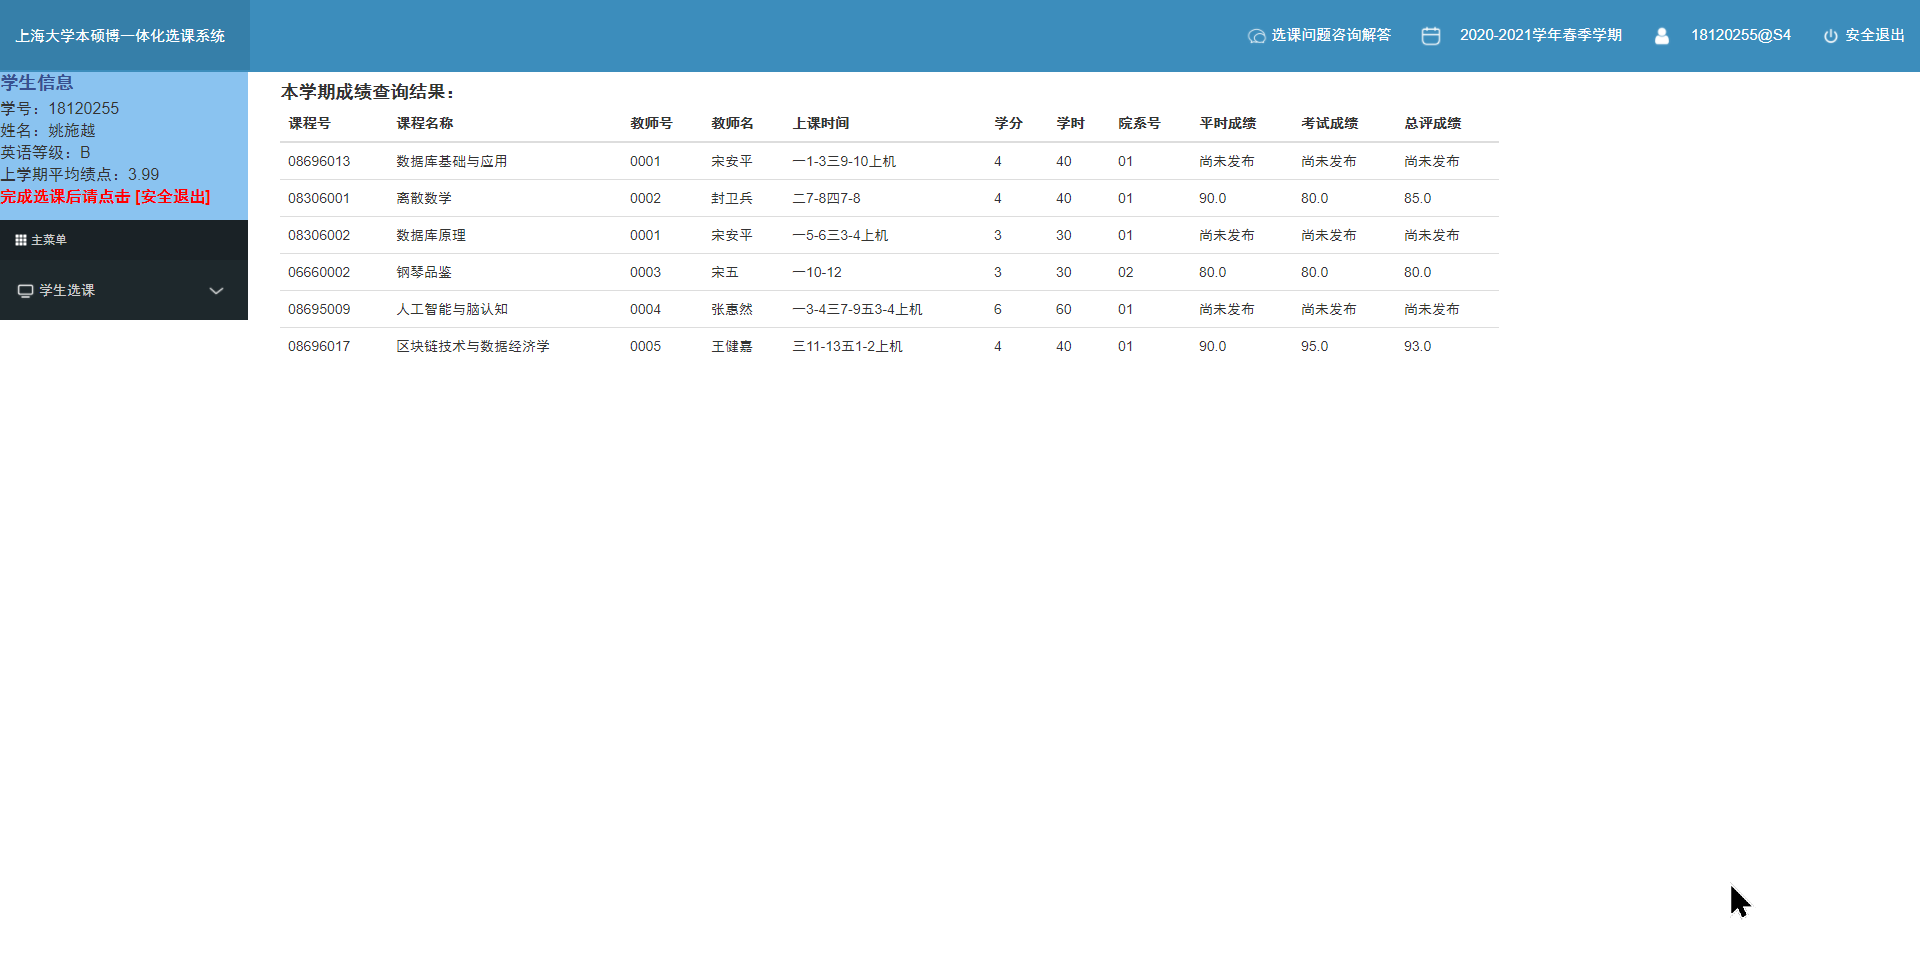
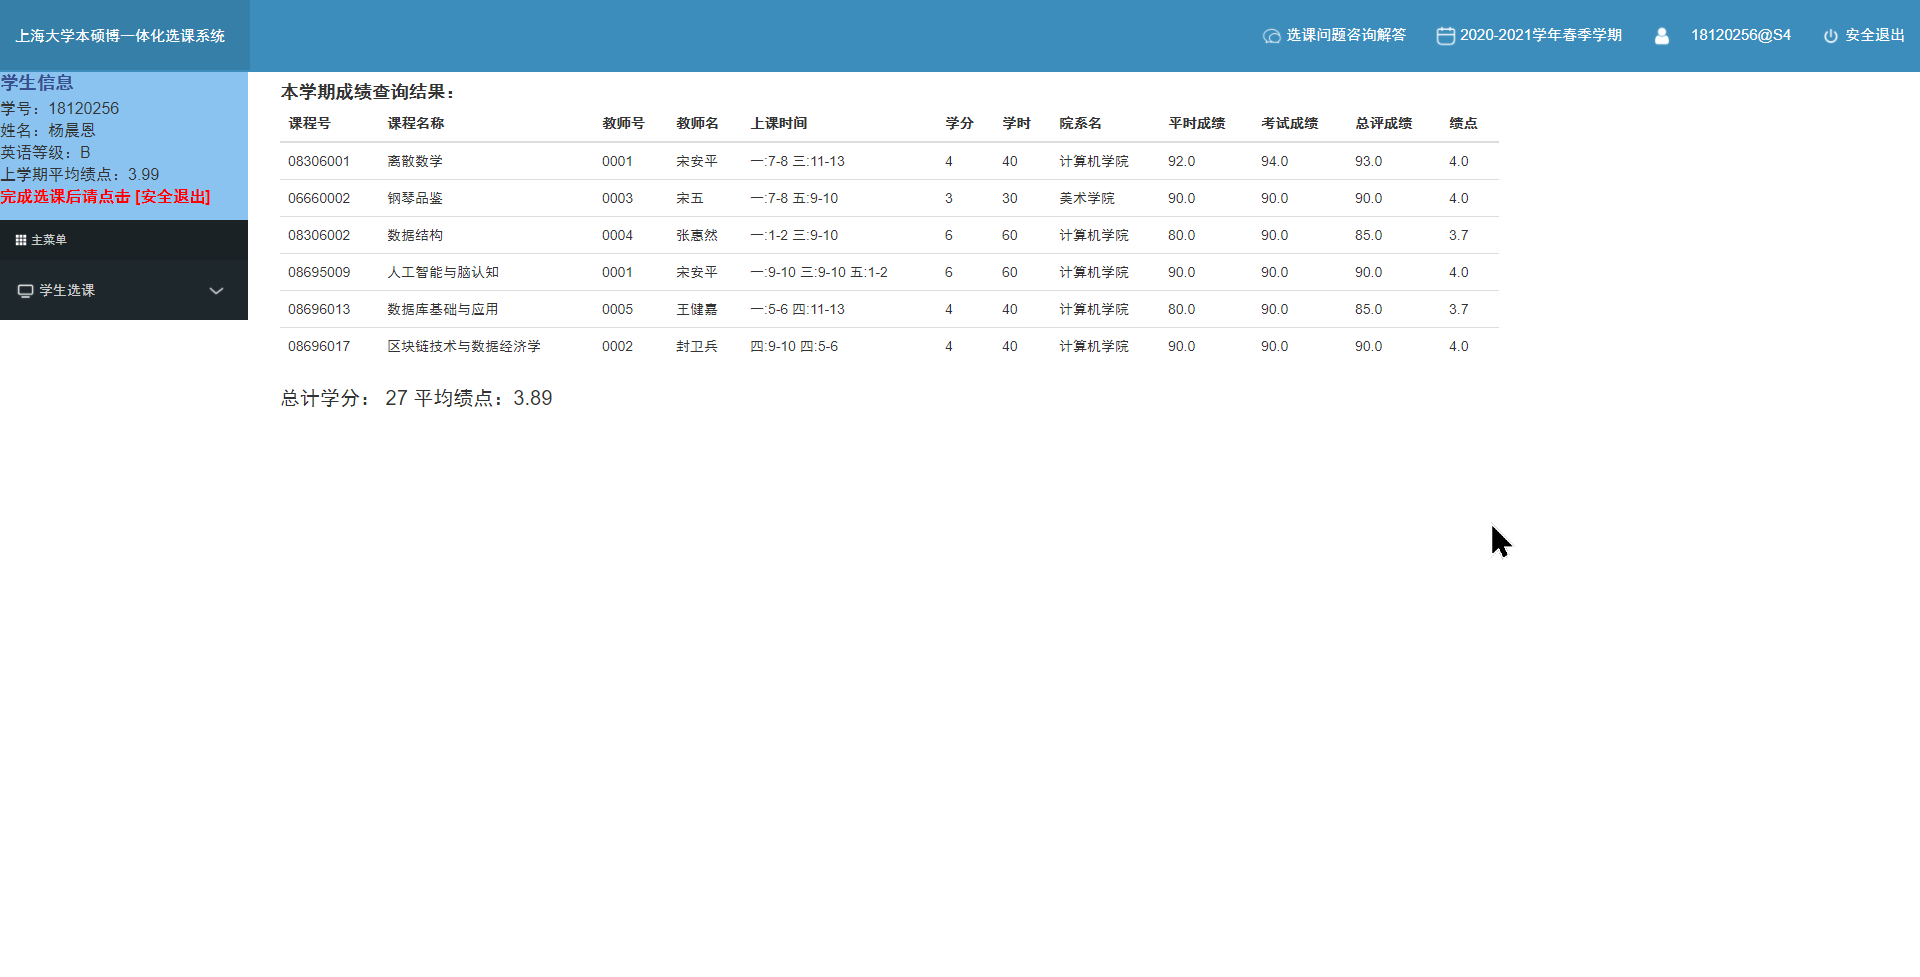
成绩查询功能完成，计算总学分和平均绩点，后续考虑触发器实现

diff --git a/templates/student_QueryGrades.html b/templates/student_QueryGrades.html
@@ -202,6 +202,9 @@
                 {% endfor %}
             </tbody>
         </table>
+        <text style="font-size: 20px">
+            总计学分： {{ xftotal }}   平均绩点：{{ GPA }}
+        </text>
     </div>
     <!-- jQuery (necessary for Bootstrap's JavaScript plugins) -->
     <script src="{% static 'js/jquery-3.4.1.js' %}"></script>

diff --git a/EMSystem/views.py b/EMSystem/views.py
@@ -999,6 +999,7 @@ def student_QueryGrades(request):
     context = filterEnew(context, request)
     print(">>>context after")
     print(context)
+    calGPA(context)
     return render(request, 'student_QueryGrades.html', context=context)
 
 @login_required
@@ -1158,3 +1159,20 @@ def filterEnew(context,request):
     print(classtable)
     context['classtable'] = classtable
     return context
+
+# 计算总学分和均绩
+def calGPA(context):
+    print(">>>calGPA")
+    print(">>>classtable",context['classtable'])
+    xftotal = 0 # 总计学分
+    gradetotal = 0 # 所有课程绩点总和
+    for i in context['classtable']:
+        xftotal = xftotal + i['xf']
+        gradetotal = gradetotal + i['xf'] * i['grade']
+    print(">>>xftotal",xftotal)
+    print(">>>gradetotal",gradetotal)
+    GPA = round(gradetotal / xftotal + 0.001, 2) # 四舍五入
+    print(">>>gradetotal / xftotal",gradetotal / xftotal)
+    print(">>>GPA",GPA)
+    context['xftotal'] = xftotal
+    context['GPA'] = GPA

diff --git a/README.md b/README.md
@@ -10,25 +10,27 @@ https://oauth.shu.edu.cn/static/images/logo-white.png
 ### 学生端选课限制（时间段or学分上限）触发器
 ### ~~学生端课程查询student_QueryCourse~~
 ![image](https://github.com/Badw0lf613/EMSystem/blob/master/static/images/kccx.png)
-&emsp;&emsp;学生查询课程时可以选择学期，因此可以查到非当前学期/当前学期未开设的课程。<br>
-&emsp;&emsp;<big>__分情况考虑__</big>针对C表存在但O表中不存在的课程即当前学期未开设的课程，返回结果为C表所有字段。<br>&emsp;&emsp;对于C表和O表均存在的课程即当前学期开设的课程，返回结果仿照教务处选课系统，增加工号，教师名称，上课时间三个字段。<br>
-&emsp;&emsp;故首先查询C表，使用filter方法将表单的字段与C表中已有的字段（xq,kh,km）进行匹配。此时gh,jsmc,sksj三个字段仍为空，需要利用到O表和T表进行多表查询。<big><big>注意：需要确保O表与C表的主键id对应一致，即C表包含所有id，O表只有其中一部分。</big></big>
+学生查询课程时可以选择学期，因此可以查到非当前学期/当前学期未开设的课程。<br>
+<big>__分情况考虑__</big>针对C表存在但O表中不存在的课程即当前学期未开设的课程，返回结果为C表所有字段。<br>&emsp;&emsp;对于C表和O表均存在的课程即当前学期开设的课程，返回结果仿照教务处选课系统，增加工号，教师名称，上课时间三个字段。<br>
+故首先查询C表，使用filter方法将表单的字段与C表中已有的字段（xq,kh,km）进行匹配。此时gh,jsmc,sksj三个字段仍为空，需要利用到O表和T表进行多表查询。<big><big>注意：需要确保O表与C表的主键id对应一致，即C表包含所有id，O表只有其中一部分。</big></big>
 ### ~~学生端选课student_AddCourse~~~~选课成功/失败信息弹窗~~
 ![image](https://github.com/Badw0lf613/EMSystem/blob/master/static/images/xk.png)
-&emsp;&emsp;学生选课针对当前学期即2020-2021学年春季学期，使用课程号、工号、学期和学号对E表进行查询。首先利用这四个字段在E表中找出id，再分别到C、O、T表中通过id找出课程名称、上课时间和教师名称。<br>
-&emsp;&emsp;是否要考虑一个老师一学期同一门课开两次的情况（如信号处理）。<br>
-&emsp;&emsp;解决重复选课的bug。
+学生选课针对当前学期即2020-2021学年春季学期，使用课程号、工号、学期和学号对E表进行查询。首先利用这四个字段在E表中找出id，再分别到C、O、T表中通过id找出课程名称、上课时间和教师名称。<br>
+是否要考虑一个老师一学期同一门课开两次的情况（如信号处理）。<br>
+解决重复选课的bug。<br>
+**选课时间段冲突。**
 ### ~~学生端退课student_DeleteCourse选课~~
 ![image](https://github.com/Badw0lf613/EMSystem/blob/master/static/images/tk.png)
-&emsp;&emsp;复选框效果完成，jQuery方法删除对应的课程，对于未选择课程和选课成功均设置弹窗。
+复选框效果完成，jQuery方法删除对应的课程，对于未选择课程和选课成功均设置弹窗。
 ### ~~学生端成绩查询student_QueryGrades~~
 ![image](https://github.com/Badw0lf613/EMSystem/blob/master/static/images/cjcx.png)
+触发器：更新GPA
 ### 学生端课表student_CourseTable
 ### 院系号变院系
 ### C变O
-&emsp;&emsp;方案：老师发申请，放入一张新表（一个字段表示课程状态，课程变开课表|认领页面|申请页面），管理员去读，类似于借阅表，管理员给课号，输入课名时（触发器），不重复就可以
+方案：老师发申请，放入一张新表（一个字段表示课程状态，课程变开课表|认领页面|申请页面），管理员去读，类似于借阅表，管理员给课号，输入课名时（触发器），不重复就可以
 ### C增加
-&emsp;&emsp;方案：老师发申请，放入一张新表（一个字段表示课程状态，为开设新课程表|认领页面|申请页面），管理员给课号
+方案：老师发申请，放入一张新表（一个字段表示课程状态，为开设新课程表|认领页面|申请页面），管理员给课号
 ### 触发器
 选课：先建记录，再判断能不能插入<br>
 hyd教学评估：新来学生的打分与原分数比，高/低，不需要新建一个表 before update update，先吉减再加<br>
